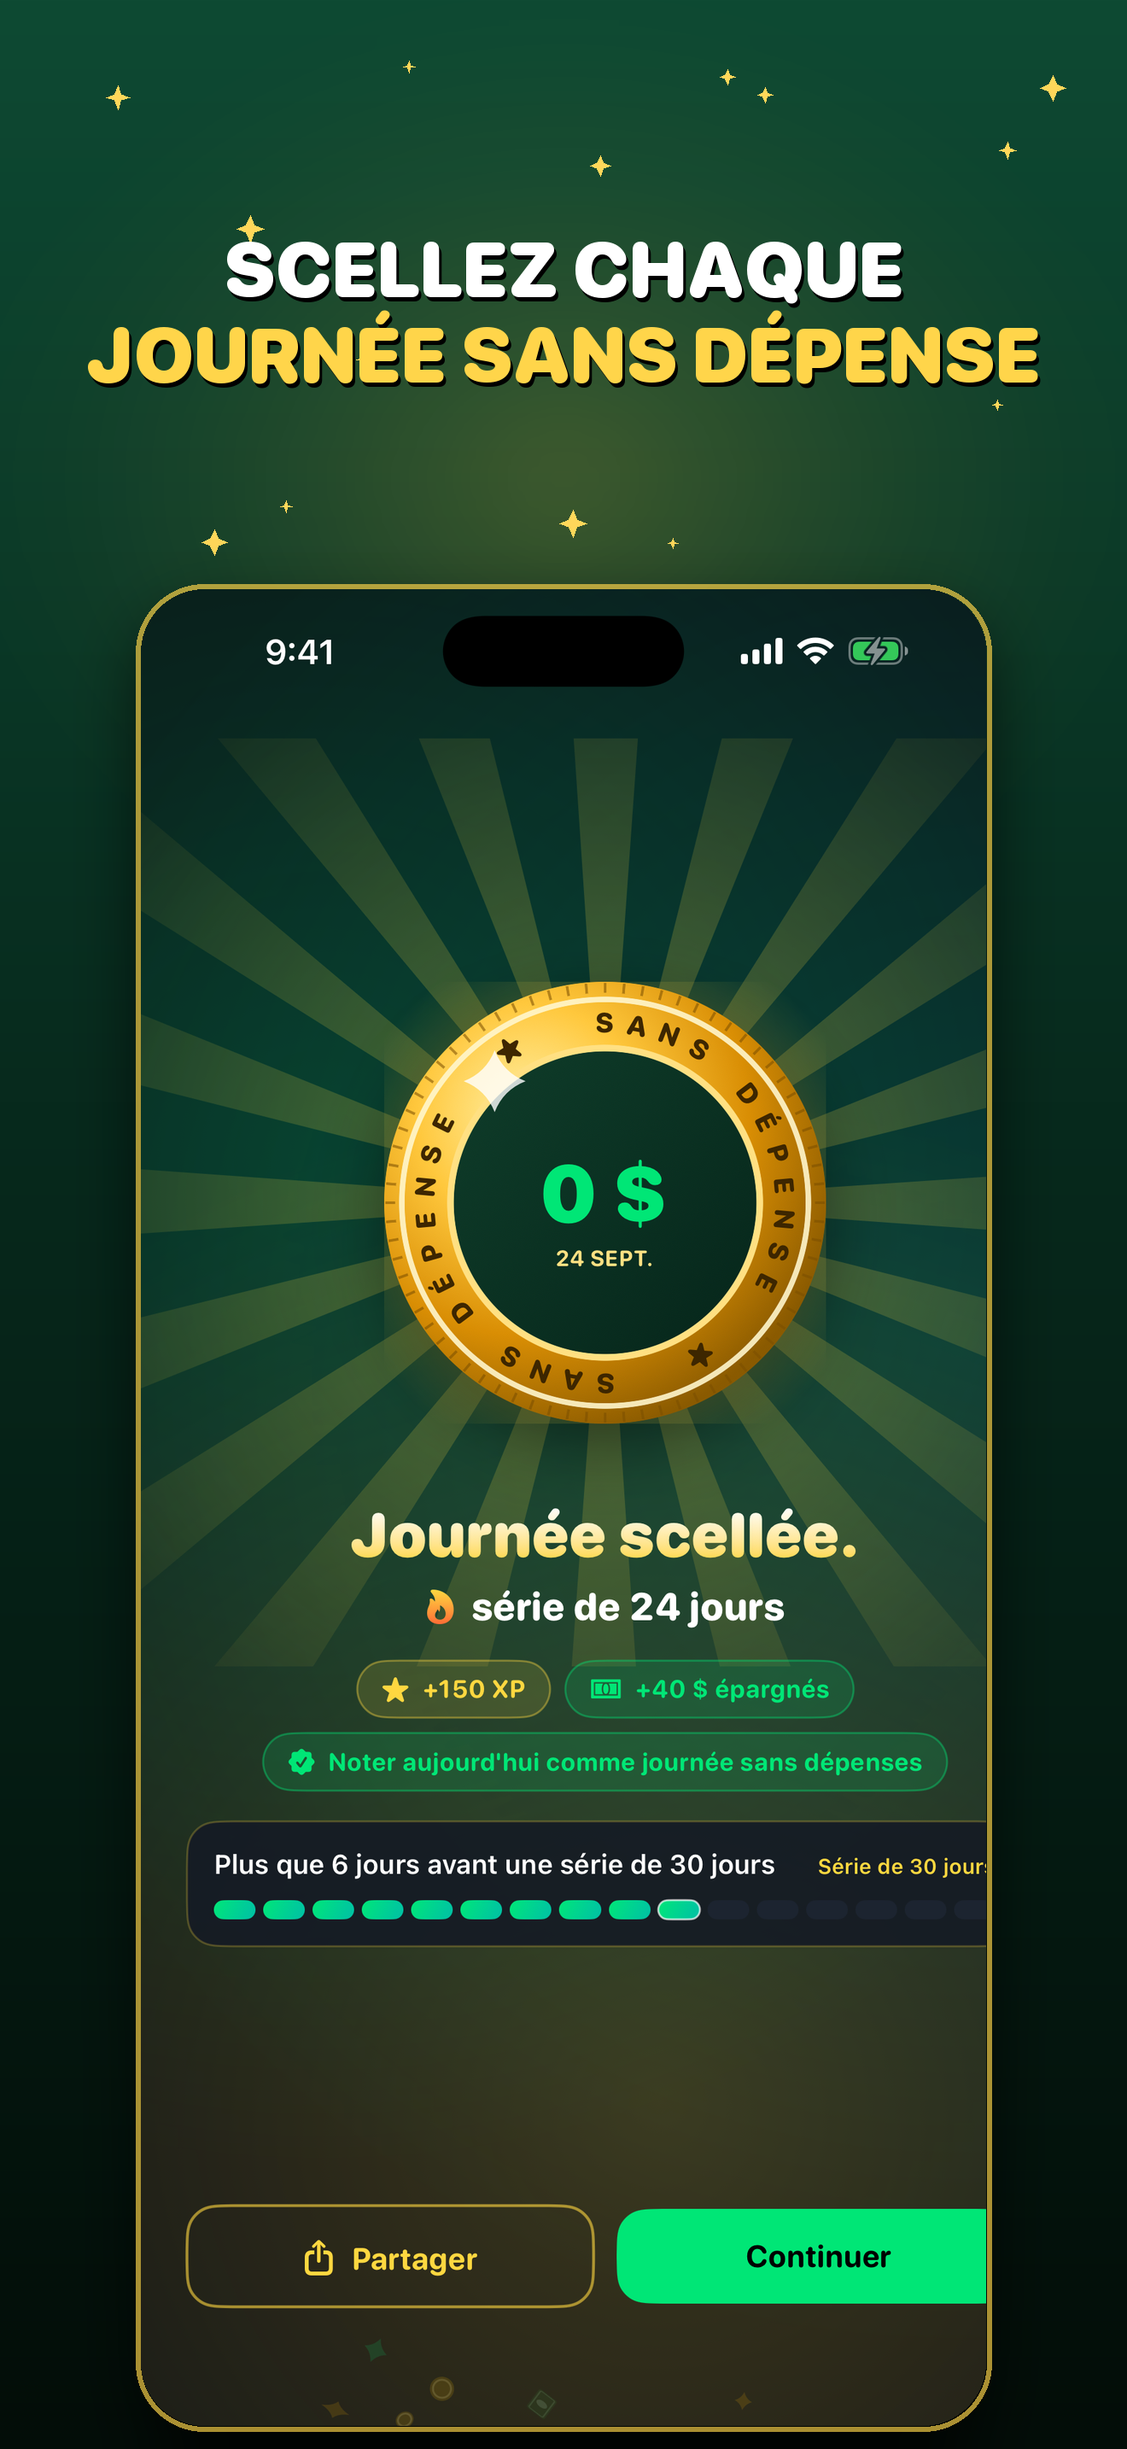
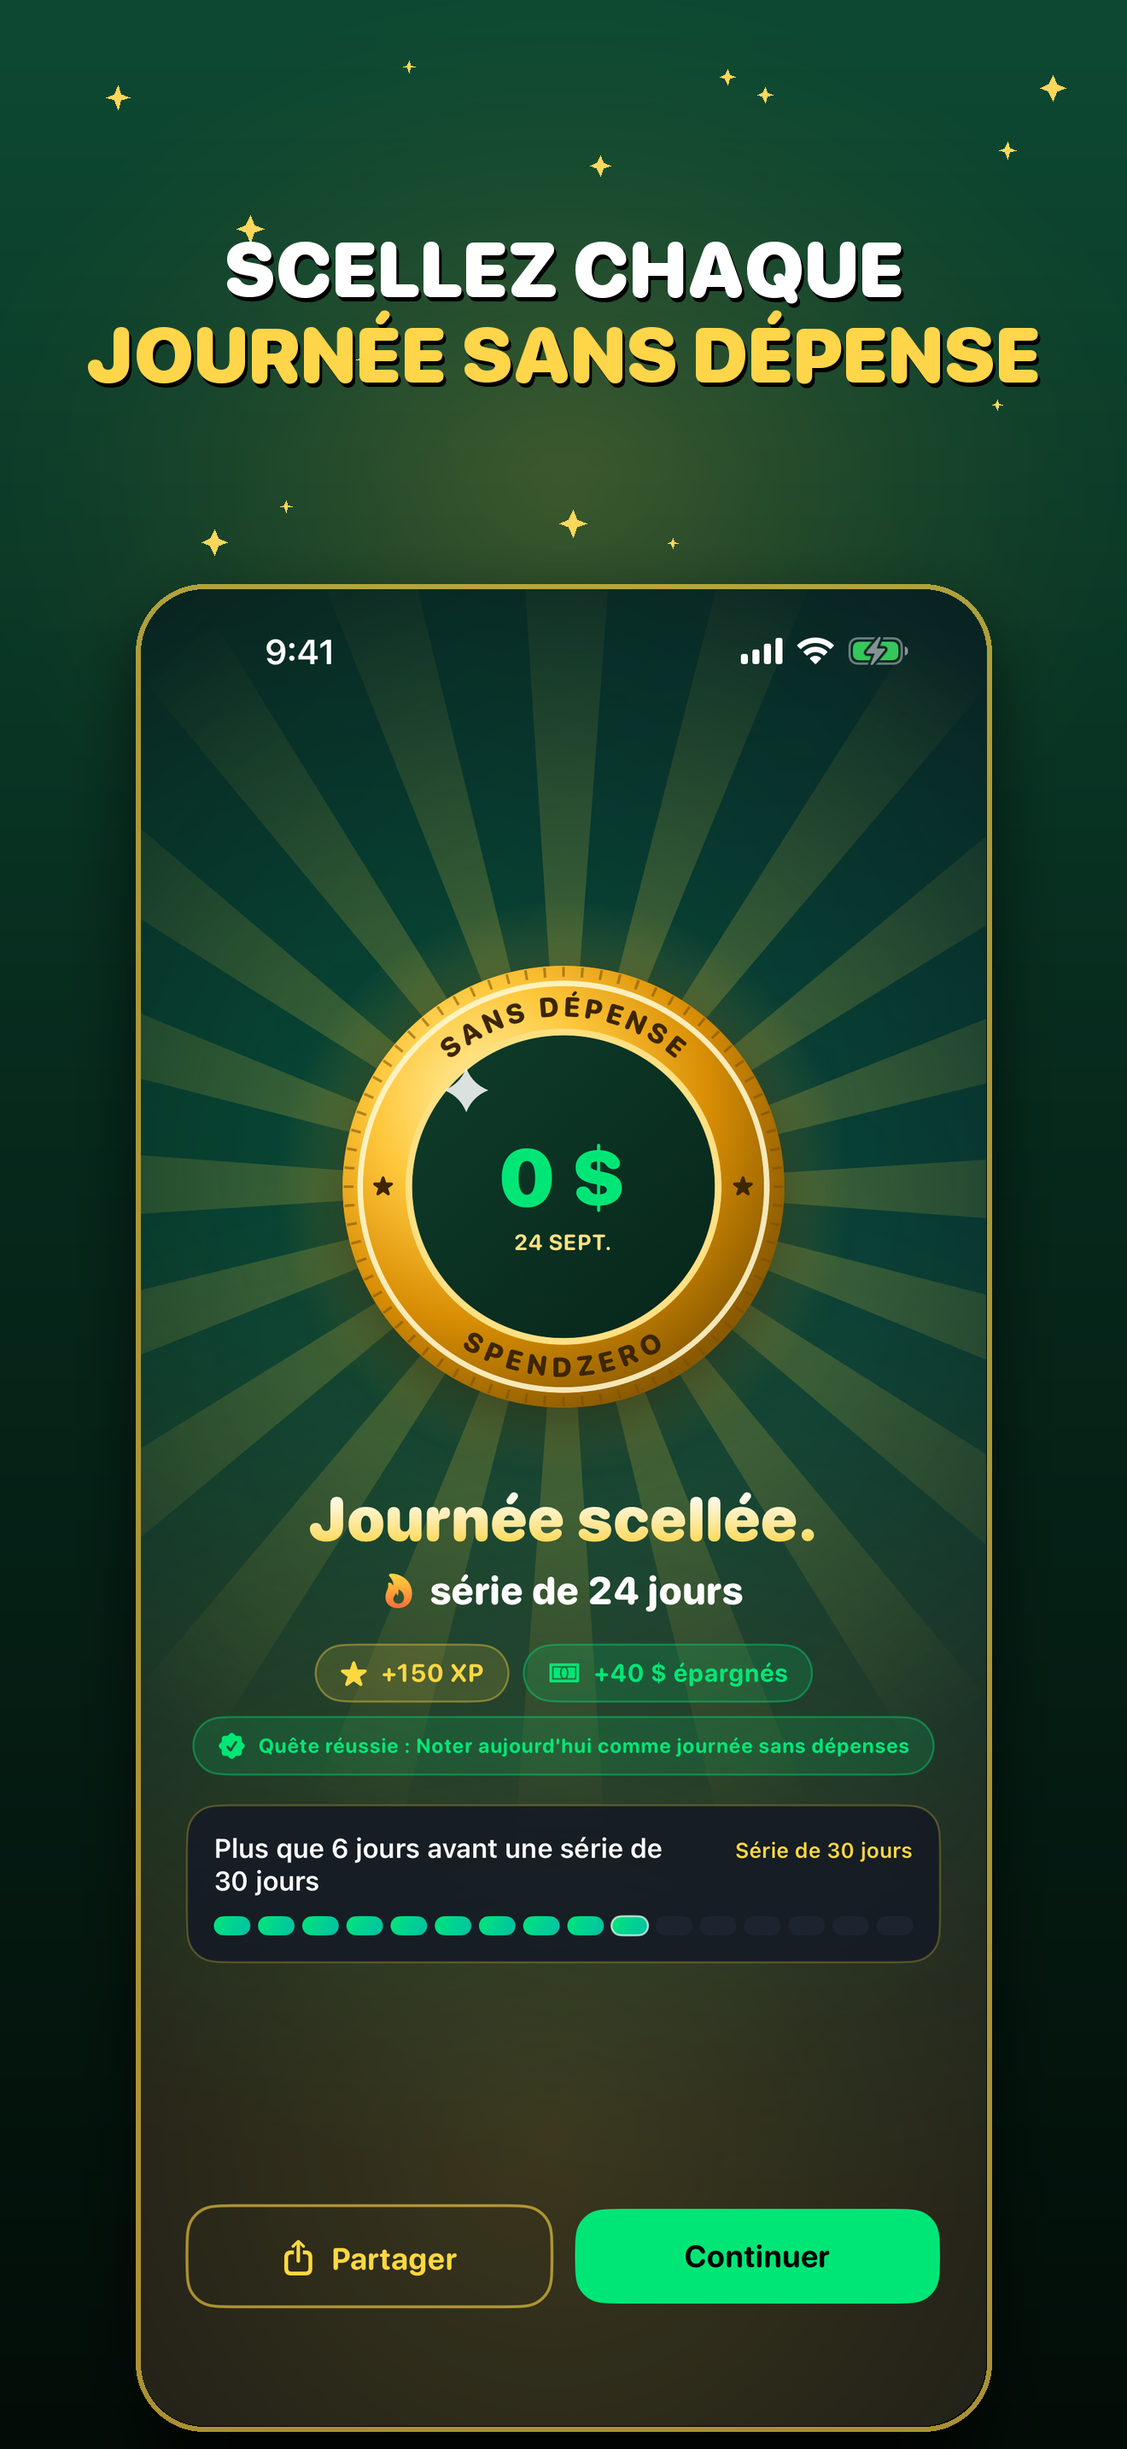
1.3 (build 10): fix Day Sealed overflow, wrap challenge chips, readable coin
- Day Sealed: sunburst moved to a background so it can't widen the
  layout (content ran off the right edge on real devices); rays fade
  before their frame edge; coin halo drawn outside the canvas (no square
  box); ring lettering reads upright top and bottom; glint moved off the
  lettering; quest chips say "Quest done: …" and shrink to fit
- Challenges: category filter and New Challenge category picker wrap
  onto rows with icons instead of a sideways scroller / truncated
  segmented control
- "Quest done: %@" in all 12 locales
- Recaptured the Day Sealed App Store slide for all 16 listings

diff --git a/SpendZero/Views/Shared/Delight.swift b/SpendZero/Views/Shared/Delight.swift
@@ -191,6 +191,8 @@ struct Sunburst: View {
             Canvas { ctx, size in
                 let c = CGPoint(x: size.width / 2, y: size.height / 2)
                 let R = max(size.width, size.height) * 0.75
+                // Fade out by the inscribed circle so the canvas edge never shows as a hard line.
+                let fade = min(size.width, size.height) / 2
                 let step = 2 * Double.pi / Double(rays)
                 for i in 0..<rays {
                     let a = Double(i) * step + spin
@@ -200,8 +202,8 @@ struct Sunburst: View {
                     ray.addLine(to: CGPoint(x: c.x + cos(a + step * 0.22) * R, y: c.y + sin(a + step * 0.22) * R))
                     ray.closeSubpath()
                     ctx.fill(ray, with: .radialGradient(
-                        Gradient(colors: [color.opacity(0.32), color.opacity(0)]),
-                        center: c, startRadius: 0, endRadius: R))
+                        Gradient(colors: [color.opacity(0.34), color.opacity(0.16), color.opacity(0)]),
+                        center: c, startRadius: 0, endRadius: fade))
                 }
             }
         }
@@ -311,12 +313,6 @@ struct SealMedallion: View {
             let c = CGPoint(x: size.width / 2, y: size.height / 2)
             let r = d / 2
 
-            if glow {
-                ctx.fill(Path(ellipseIn: CGRect(x: c.x - r * 1.25, y: c.y - r * 1.25, width: r * 2.5, height: r * 2.5)),
-                         with: .radialGradient(Gradient(colors: [AppTheme.accentGold.opacity(0.35), .clear]),
-                                               center: c, startRadius: r * 0.6, endRadius: r * 1.25))
-            }
-
             let outer = CGRect(x: c.x - r, y: c.y - r, width: d, height: d)
             // Coin body with a light source top-left.
             ctx.fill(Path(ellipseIn: outer), with: .radialGradient(
@@ -340,17 +336,44 @@ struct SealMedallion: View {
                 startPoint: CGPoint(x: inner.minX, y: inner.minY), endPoint: CGPoint(x: inner.maxX, y: inner.maxY)))
             ctx.stroke(Path(ellipseIn: inner), with: .color(Color(hex: "FFE082")), lineWidth: r * 0.03)
 
-            // Ring lettering between the rims.
-            let lettering = Array((ringText + "  ★  " + ringText + "  ★  ").uppercased())
+            // Ring lettering between the rims: the label arcs over the top, the brand arcs under the
+            // bottom, and both read upright left-to-right like a real coin.
             let ringR = r * 0.815
-            let fontSize = r * 0.125
-            for (i, ch) in lettering.enumerated() {
-                let a = -Double.pi / 2 + Double(i) / Double(lettering.count) * 2 * .pi
+            let ink = Color(hex: "3D2600")
+            func arc(_ string: String, centeredAt mid: Double, upright bottom: Bool) {
+                let maxArc = ringR * 2.5
+                func glyphs(_ size: CGFloat) -> [(GraphicsContext.ResolvedText, CGFloat)] {
+                    Array(string.uppercased()).map { ch in
+                        let t = ctx.resolve(Text(String(ch)).font(.system(size: size, weight: .heavy, design: .rounded))
+                            .foregroundColor(ink))
+                        return (t, t.measure(in: CGSize(width: size * 4, height: size * 4)).width + size * 0.14)
+                    }
+                }
+                var size = r * 0.125
+                var gs = glyphs(size)
+                let total = gs.reduce(0) { $0 + $1.1 }
+                if total > maxArc {
+                    size *= maxArc / total
+                    gs = glyphs(size)
+                }
+                let length = gs.reduce(0) { $0 + $1.1 }
+                var run = -length / 2
+                for (glyph, w) in gs {
+                    let offset = Double((run + w / 2) / ringR)
+                    let a = bottom ? mid - offset : mid + offset
+                    var l = ctx
+                    l.translateBy(x: c.x + cos(a) * ringR, y: c.y + sin(a) * ringR)
+                    l.rotate(by: .radians(bottom ? a - .pi / 2 : a + .pi / 2))
+                    l.draw(glyph, at: .zero)
+                    run += w
+                }
+            }
+            arc(ringText, centeredAt: -.pi / 2, upright: false)
+            arc("SpendZero", centeredAt: .pi / 2, upright: true)
+            for side in [0.0, Double.pi] {
                 var l = ctx
-                l.translateBy(x: c.x + cos(a) * ringR, y: c.y + sin(a) * ringR)
-                l.rotate(by: .radians(a + .pi / 2))
-                l.draw(Text(String(ch)).font(.system(size: fontSize, weight: .heavy, design: .rounded))
-                        .foregroundColor(Color(hex: "3D2600")), at: .zero)
+                l.translateBy(x: c.x + cos(side) * ringR, y: c.y + sin(side) * ringR)
+                l.draw(Text("★").font(.system(size: r * 0.1, weight: .heavy)).foregroundColor(ink), at: .zero)
             }
 
             // Centre: amount spent (zero) and the date.
@@ -361,11 +384,23 @@ struct SealMedallion: View {
                         .foregroundColor(Color(hex: "FFE082")),
                      at: CGPoint(x: c.x, y: c.y + r * 0.25))
 
-            // Specular glint.
+            // Specular glint on the inner bevel, clear of the ring lettering.
             var l = ctx
-            l.opacity = 0.8
-            l.translateBy(x: c.x - r * 0.5, y: c.y - r * 0.55)
-            l.fill(Sparkle.path(size: r * 0.28), with: .color(.white))
+            l.opacity = 0.85
+            l.translateBy(x: c.x + cos(-2.36) * r * 0.62, y: c.y + sin(-2.36) * r * 0.62)
+            l.fill(Sparkle.path(size: r * 0.2), with: .color(.white))
+        }
+        .background {
+            // Outside the canvas so the halo isn't clipped to the coin's square frame.
+            if glow {
+                GeometryReader { g in
+                    let r = min(g.size.width, g.size.height) / 2
+                    RadialGradient(colors: [AppTheme.accentGold.opacity(0.35), AppTheme.accentGold.opacity(0)],
+                                   center: .center, startRadius: r * 0.6, endRadius: r * 1.3)
+                        .frame(width: r * 2.6, height: r * 2.6)
+                        .position(x: g.size.width / 2, y: g.size.height / 2)
+                }
+            }
         }
         .accessibilityHidden(true)
     }

diff --git a/SpendZero/Views/Challenges/ChallengeLibraryView.swift b/SpendZero/Views/Challenges/ChallengeLibraryView.swift
@@ -24,22 +24,22 @@ struct ChallengeLibraryView: View {
                         ActiveChallengeCard(challenge: active)
                     }
 
-                    // Category filter
-                    ScrollView(.horizontal, showsIndicators: false) {
-                        HStack(spacing: 8) {
-                            CategoryFilterChip(title: "All", isSelected: selectedCategory == nil) {
-                                selectedCategory = nil
-                            }
-                            ForEach(ChallengeCategory.allCases, id: \.self) { cat in
-                                CategoryFilterChip(
-                                    title: LocalizedStringKey(cat.rawValue),
-                                    isSelected: selectedCategory == cat
-                                ) {
-                                    selectedCategory = cat
-                                }
+                    // Category filter: wrapped so every option is visible without sideways scrolling.
+                    FlowLayout(spacing: 8) {
+                        CategoryFilterChip(title: "All", icon: "square.grid.2x2.fill", isSelected: selectedCategory == nil) {
+                            withAnimation(.snappy) { selectedCategory = nil }
+                        }
+                        ForEach(ChallengeCategory.allCases, id: \.self) { cat in
+                            CategoryFilterChip(
+                                title: LocalizedStringKey(cat.rawValue),
+                                icon: cat.icon,
+                                isSelected: selectedCategory == cat
+                            ) {
+                                withAnimation(.snappy) { selectedCategory = cat }
                             }
                         }
                     }
+                    .frame(maxWidth: .infinity)
 
                     // Challenge cards
                     if filteredChallenges.isEmpty {
@@ -283,22 +283,37 @@ struct ChallengeCard: View {
 
 struct CategoryFilterChip: View {
     let title: LocalizedStringKey
+    var icon: String? = nil
     let isSelected: Bool
     let action: () -> Void
 
     var body: some View {
         Button(action: action) {
-            Text(title)
-                .font(.app(size: 13, weight: .semibold))
-                .foregroundColor(isSelected ? AppTheme.background : AppTheme.textSecondary)
-                .padding(.horizontal, 14)
-                .padding(.vertical, 8)
-                .background(
-                    Capsule()
-                        .fill(isSelected ? AppTheme.primaryGreen : AppTheme.cardBackground)
-                )
+            HStack(spacing: 6) {
+                if let icon {
+                    Image(systemName: icon)
+                        .font(.app(size: 12, weight: .bold))
+                        .foregroundColor(isSelected ? AppTheme.background : AppTheme.accentGold)
+                }
+                Text(title)
+                    .font(.app(size: 14, weight: .semibold))
+                    .lineLimit(1)
+                    .fixedSize()
+            }
+            .foregroundColor(isSelected ? AppTheme.background : AppTheme.textPrimary)
+            .padding(.horizontal, 14)
+            .padding(.vertical, 9)
+            .background(
+                Capsule()
+                    .fill(isSelected ? AppTheme.primaryGreen : AppTheme.cardBackground)
+            )
+            .overlay(
+                Capsule()
+                    .stroke(isSelected ? .clear : AppTheme.textSecondary.opacity(0.18), lineWidth: 1)
+            )
         }
         .buttonStyle(.plain)
+        .accessibilityAddTraits(isSelected ? .isSelected : [])
     }
 }
 
@@ -353,19 +368,35 @@ struct CreateChallengeView: View {
                             .tint(AppTheme.primaryGreen)
                         }
 
-                        Picker("Category", selection: $category) {
-                            ForEach(ChallengeCategory.allCases, id: \.self) { cat in
-                                Text(LocalizedStringKey(cat.rawValue)).tag(cat)
+                        VStack(alignment: .leading, spacing: 10) {
+                            Text("Category")
+                                .font(AppTheme.captionFont)
+                                .foregroundColor(AppTheme.textSecondary)
+                            FlowLayout(spacing: 8, alignment: .leading) {
+                                ForEach(ChallengeCategory.allCases, id: \.self) { cat in
+                                    CategoryFilterChip(
+                                        title: LocalizedStringKey(cat.rawValue),
+                                        icon: cat.icon,
+                                        isSelected: category == cat
+                                    ) {
+                                        withAnimation(.snappy) { category = cat }
+                                    }
+                                }
                             }
+                            .frame(maxWidth: .infinity)
                         }
-                        .pickerStyle(.segmented)
 
-                        Picker("Difficulty", selection: $difficulty) {
-                            ForEach(ChallengeDifficulty.allCases, id: \.self) { diff in
-                                Text(LocalizedStringKey(diff.rawValue)).tag(diff)
+                        VStack(alignment: .leading, spacing: 10) {
+                            Text("Difficulty")
+                                .font(AppTheme.captionFont)
+                                .foregroundColor(AppTheme.textSecondary)
+                            Picker("Difficulty", selection: $difficulty) {
+                                ForEach(ChallengeDifficulty.allCases, id: \.self) { diff in
+                                    Text(LocalizedStringKey(diff.rawValue)).tag(diff)
+                                }
                             }
+                            .pickerStyle(.segmented)
                         }
-                        .pickerStyle(.segmented)
 
                         VStack(alignment: .leading, spacing: 8) {
                             Text("Estimated Savings (\(Locale.displayCurrencySymbol))")

diff --git a/SpendZero/Views/Gamification/DaySealedView.swift b/SpendZero/Views/Gamification/DaySealedView.swift
@@ -36,9 +36,6 @@ struct DaySealedView: View {
                     Spacer(minLength: 12)
 
                     ZStack {
-                        Sunburst(rays: 20)
-                            .frame(width: medal * 2.1, height: medal * 2.1)
-                            .opacity(stamped ? 1 : 0)
                         ForEach(0..<2, id: \.self) { i in
                             Circle()
                                 .stroke(AppTheme.accentGold.opacity(shockwave ? 0 : 0.7), lineWidth: 3)
@@ -52,7 +49,13 @@ struct DaySealedView: View {
                             .opacity(stamped ? 1 : 0)
                             .shadow(color: .black.opacity(0.45), radius: 18, y: 10)
                     }
-                    .frame(height: medal * 1.2)
+                    .frame(width: medal, height: medal * 1.2)
+                    // In a background so the rays can spill past the screen edge without widening the layout.
+                    .background {
+                        Sunburst(rays: 20)
+                            .frame(width: medal * 3, height: medal * 3)
+                            .opacity(stamped ? 1 : 0)
+                    }
 
                     VStack(spacing: 6) {
                         Text("Day sealed.")
@@ -88,10 +91,12 @@ struct DaySealedView: View {
                         .padding(.bottom, 28)
                         .opacity(showActions ? 1 : 0)
                 }
+                .frame(width: geo.size.width, height: geo.size.height)
 
                 CashConfettiBurst(trigger: confetti, origin: UnitPoint(x: 0.5, y: 0.26))
                     .ignoresSafeArea()
             }
+            .frame(width: geo.size.width, height: geo.size.height)
         }
         .contentShape(Rectangle())
         .onTapGesture { if showActions { onDismiss() } }
@@ -118,7 +123,7 @@ struct DaySealedView: View {
             RewardChip(icon: "snowflake", text: String(localized: "Streak freeze earned"), tint: Color(hex: "60CFFF"))
         }
         ForEach(info.questsCompleted, id: \.self) { title in
-            RewardChip(icon: "checkmark.seal.fill", text: title, tint: AppTheme.primaryGreen)
+            RewardChip(icon: "checkmark.seal.fill", text: String(localized: "Quest done: \(title)"), tint: AppTheme.primaryGreen)
         }
         if let challenge = info.challengeCompleted {
             RewardChip(icon: "trophy.fill", text: String(localized: "\(challenge) complete"), tint: AppTheme.accentGold)
@@ -231,7 +236,7 @@ struct RewardChip: View {
     var body: some View {
         HStack(spacing: 6) {
             Image(systemName: icon).font(.app(size: 12, weight: .bold))
-            Text(text).font(.app(size: 13, weight: .bold, design: .rounded)).lineLimit(1)
+            Text(text).font(.app(size: 13, weight: .bold, design: .rounded)).lineLimit(1).minimumScaleFactor(0.7)
         }
         .foregroundColor(tint)
         .padding(.horizontal, 12)
@@ -271,15 +276,16 @@ struct MilestoneTrack: View {
     }
 }
 
-/// Centres each row of chips.
+/// Wraps chips onto as many rows as needed; rows are centred unless `alignment` is `.leading`.
 struct FlowLayout: Layout {
     var spacing: CGFloat = 8
+    var alignment: HorizontalAlignment = .center
 
     private func rows(_ subviews: Subviews, maxWidth: CGFloat) -> [[(Int, CGSize)]] {
         var rows: [[(Int, CGSize)]] = [[]]
         var x: CGFloat = 0
         for (i, v) in subviews.enumerated() {
-            let s = v.sizeThatFits(.unspecified)
+            let s = v.sizeThatFits(ProposedViewSize(width: maxWidth.isFinite ? maxWidth : nil, height: nil))
             if x + s.width > maxWidth, !rows[rows.count - 1].isEmpty {
                 rows.append([]); x = 0
             }
@@ -302,7 +308,7 @@ struct FlowLayout: Layout {
         for row in rows(subviews, maxWidth: bounds.width) {
             let rowW = row.reduce(0) { $0 + $1.1.width } + spacing * CGFloat(max(0, row.count - 1))
             let rowH = row.map(\.1.height).max() ?? 0
-            var x = bounds.minX + (bounds.width - rowW) / 2
+            var x = alignment == .leading ? bounds.minX : bounds.minX + (bounds.width - rowW) / 2
             for (i, s) in row {
                 subviews[i].place(at: CGPoint(x: x, y: y + (rowH - s.height) / 2), proposal: ProposedViewSize(s))
                 x += s.width + spacing
